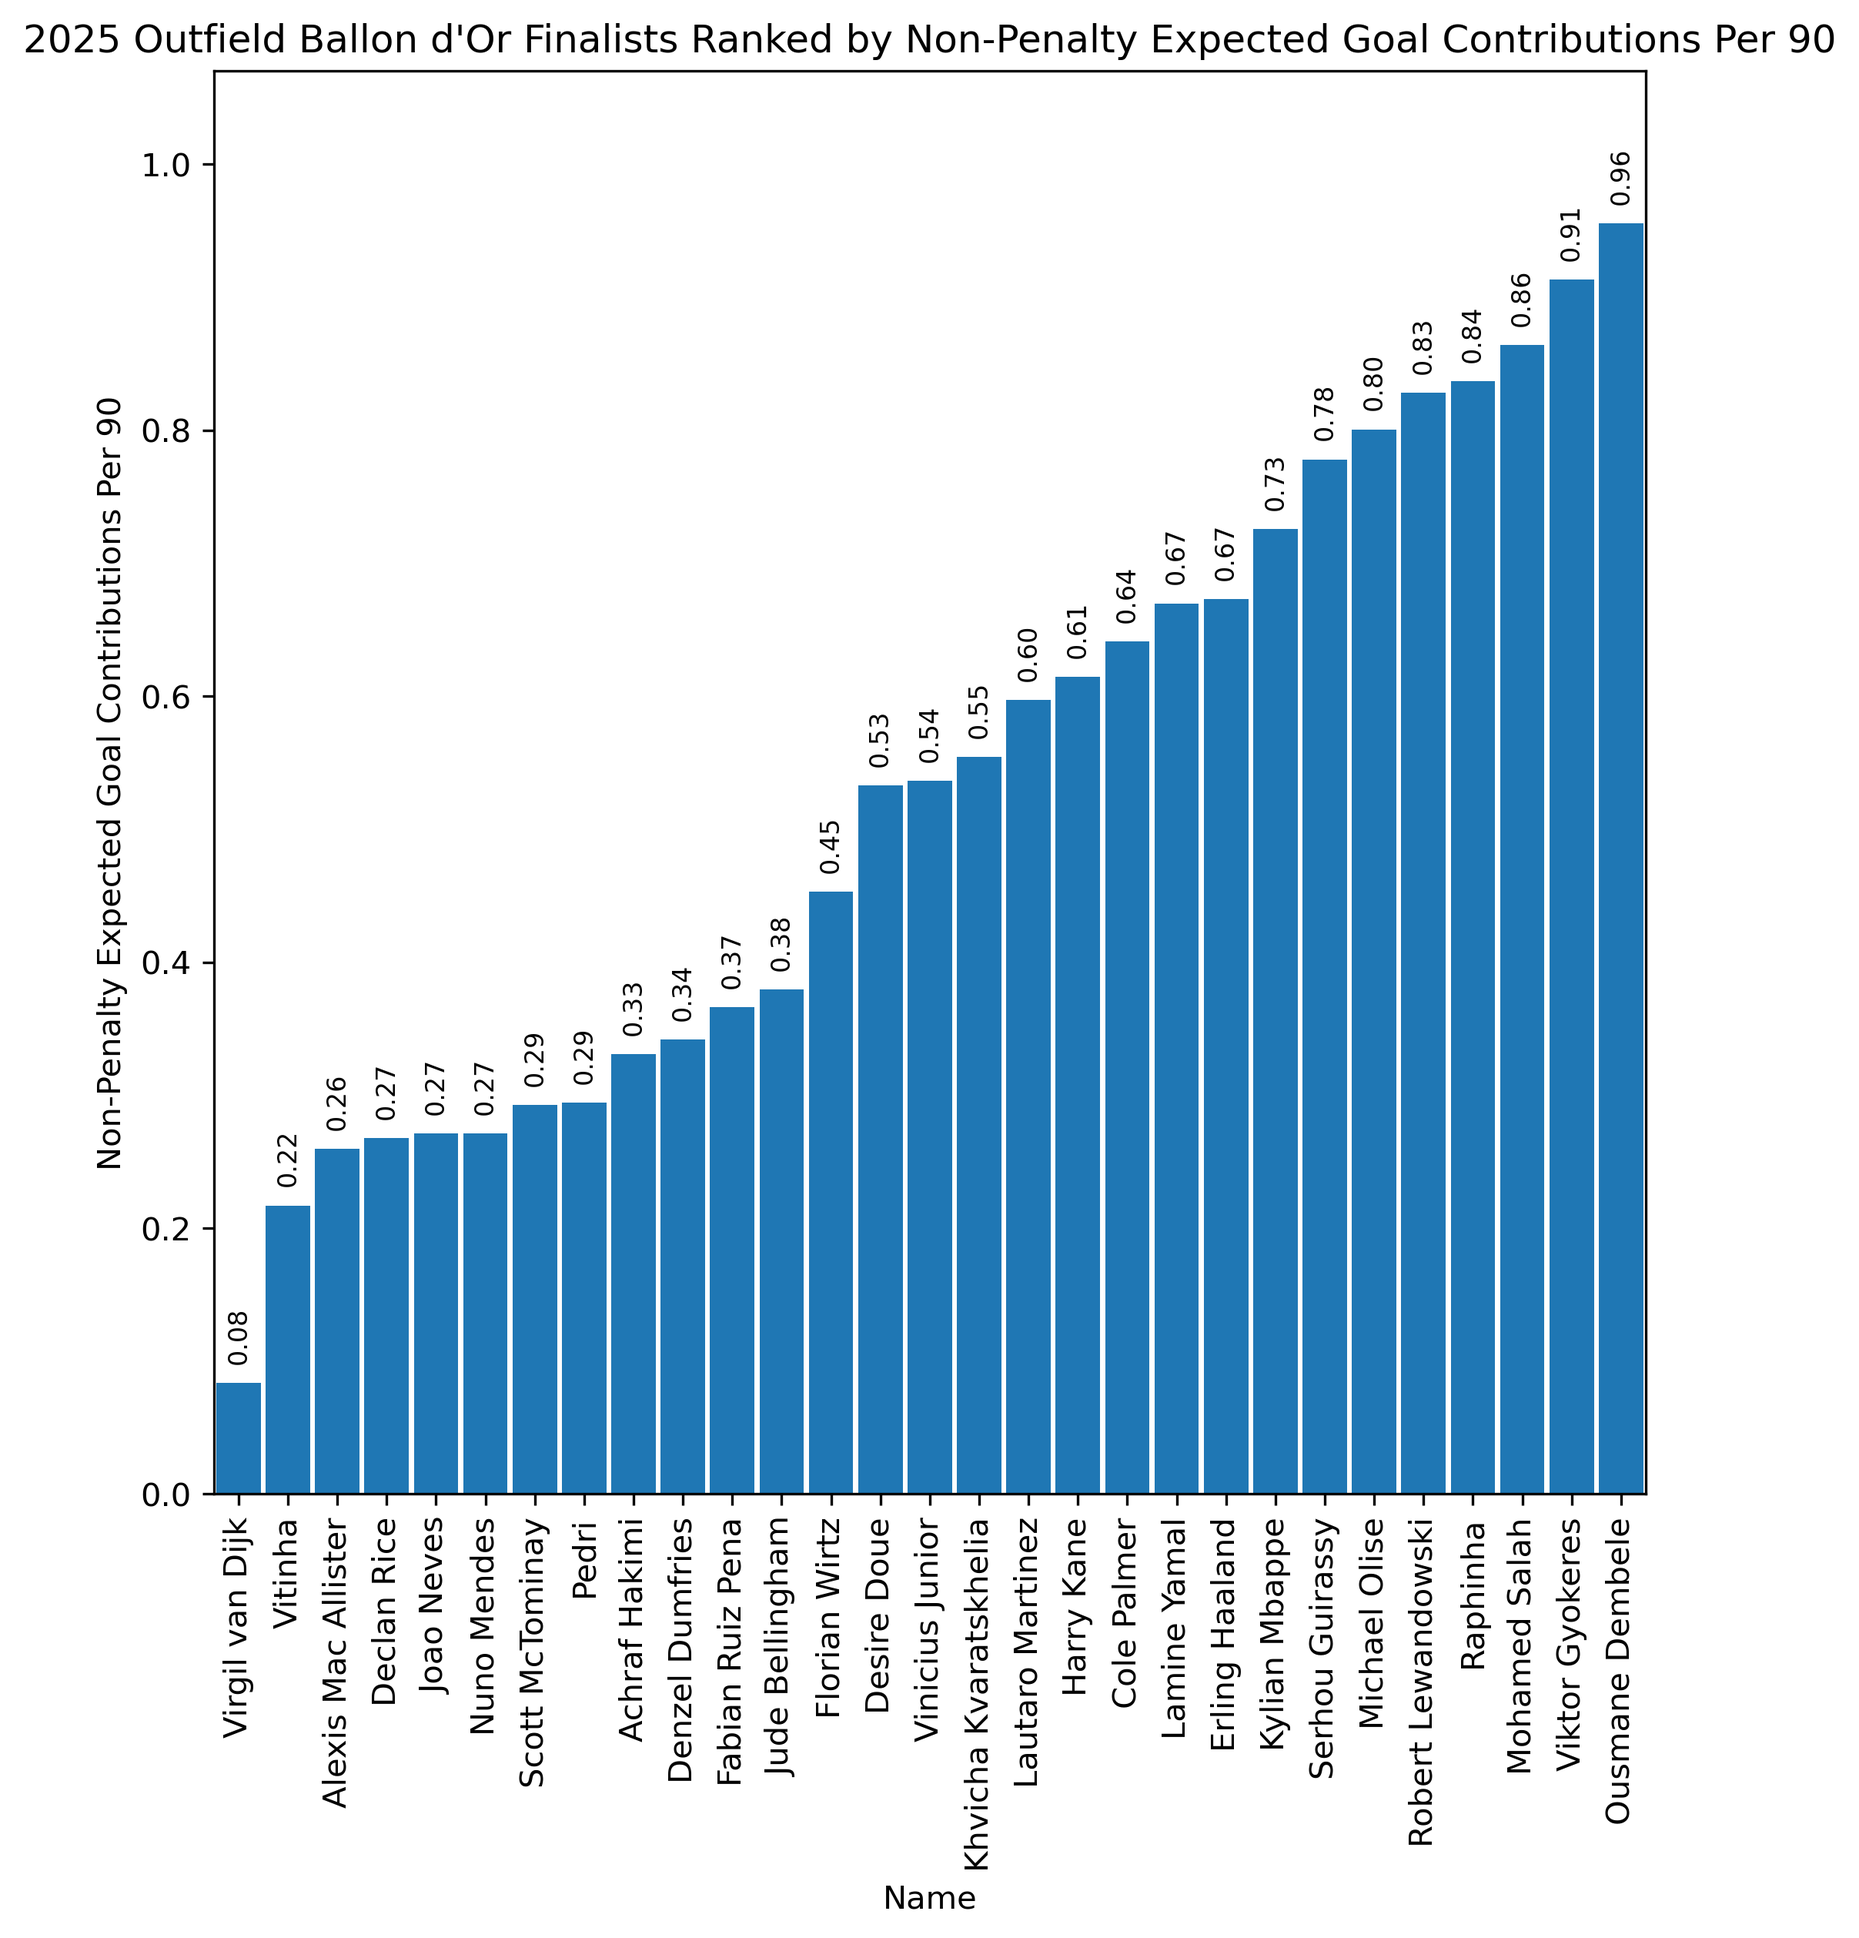
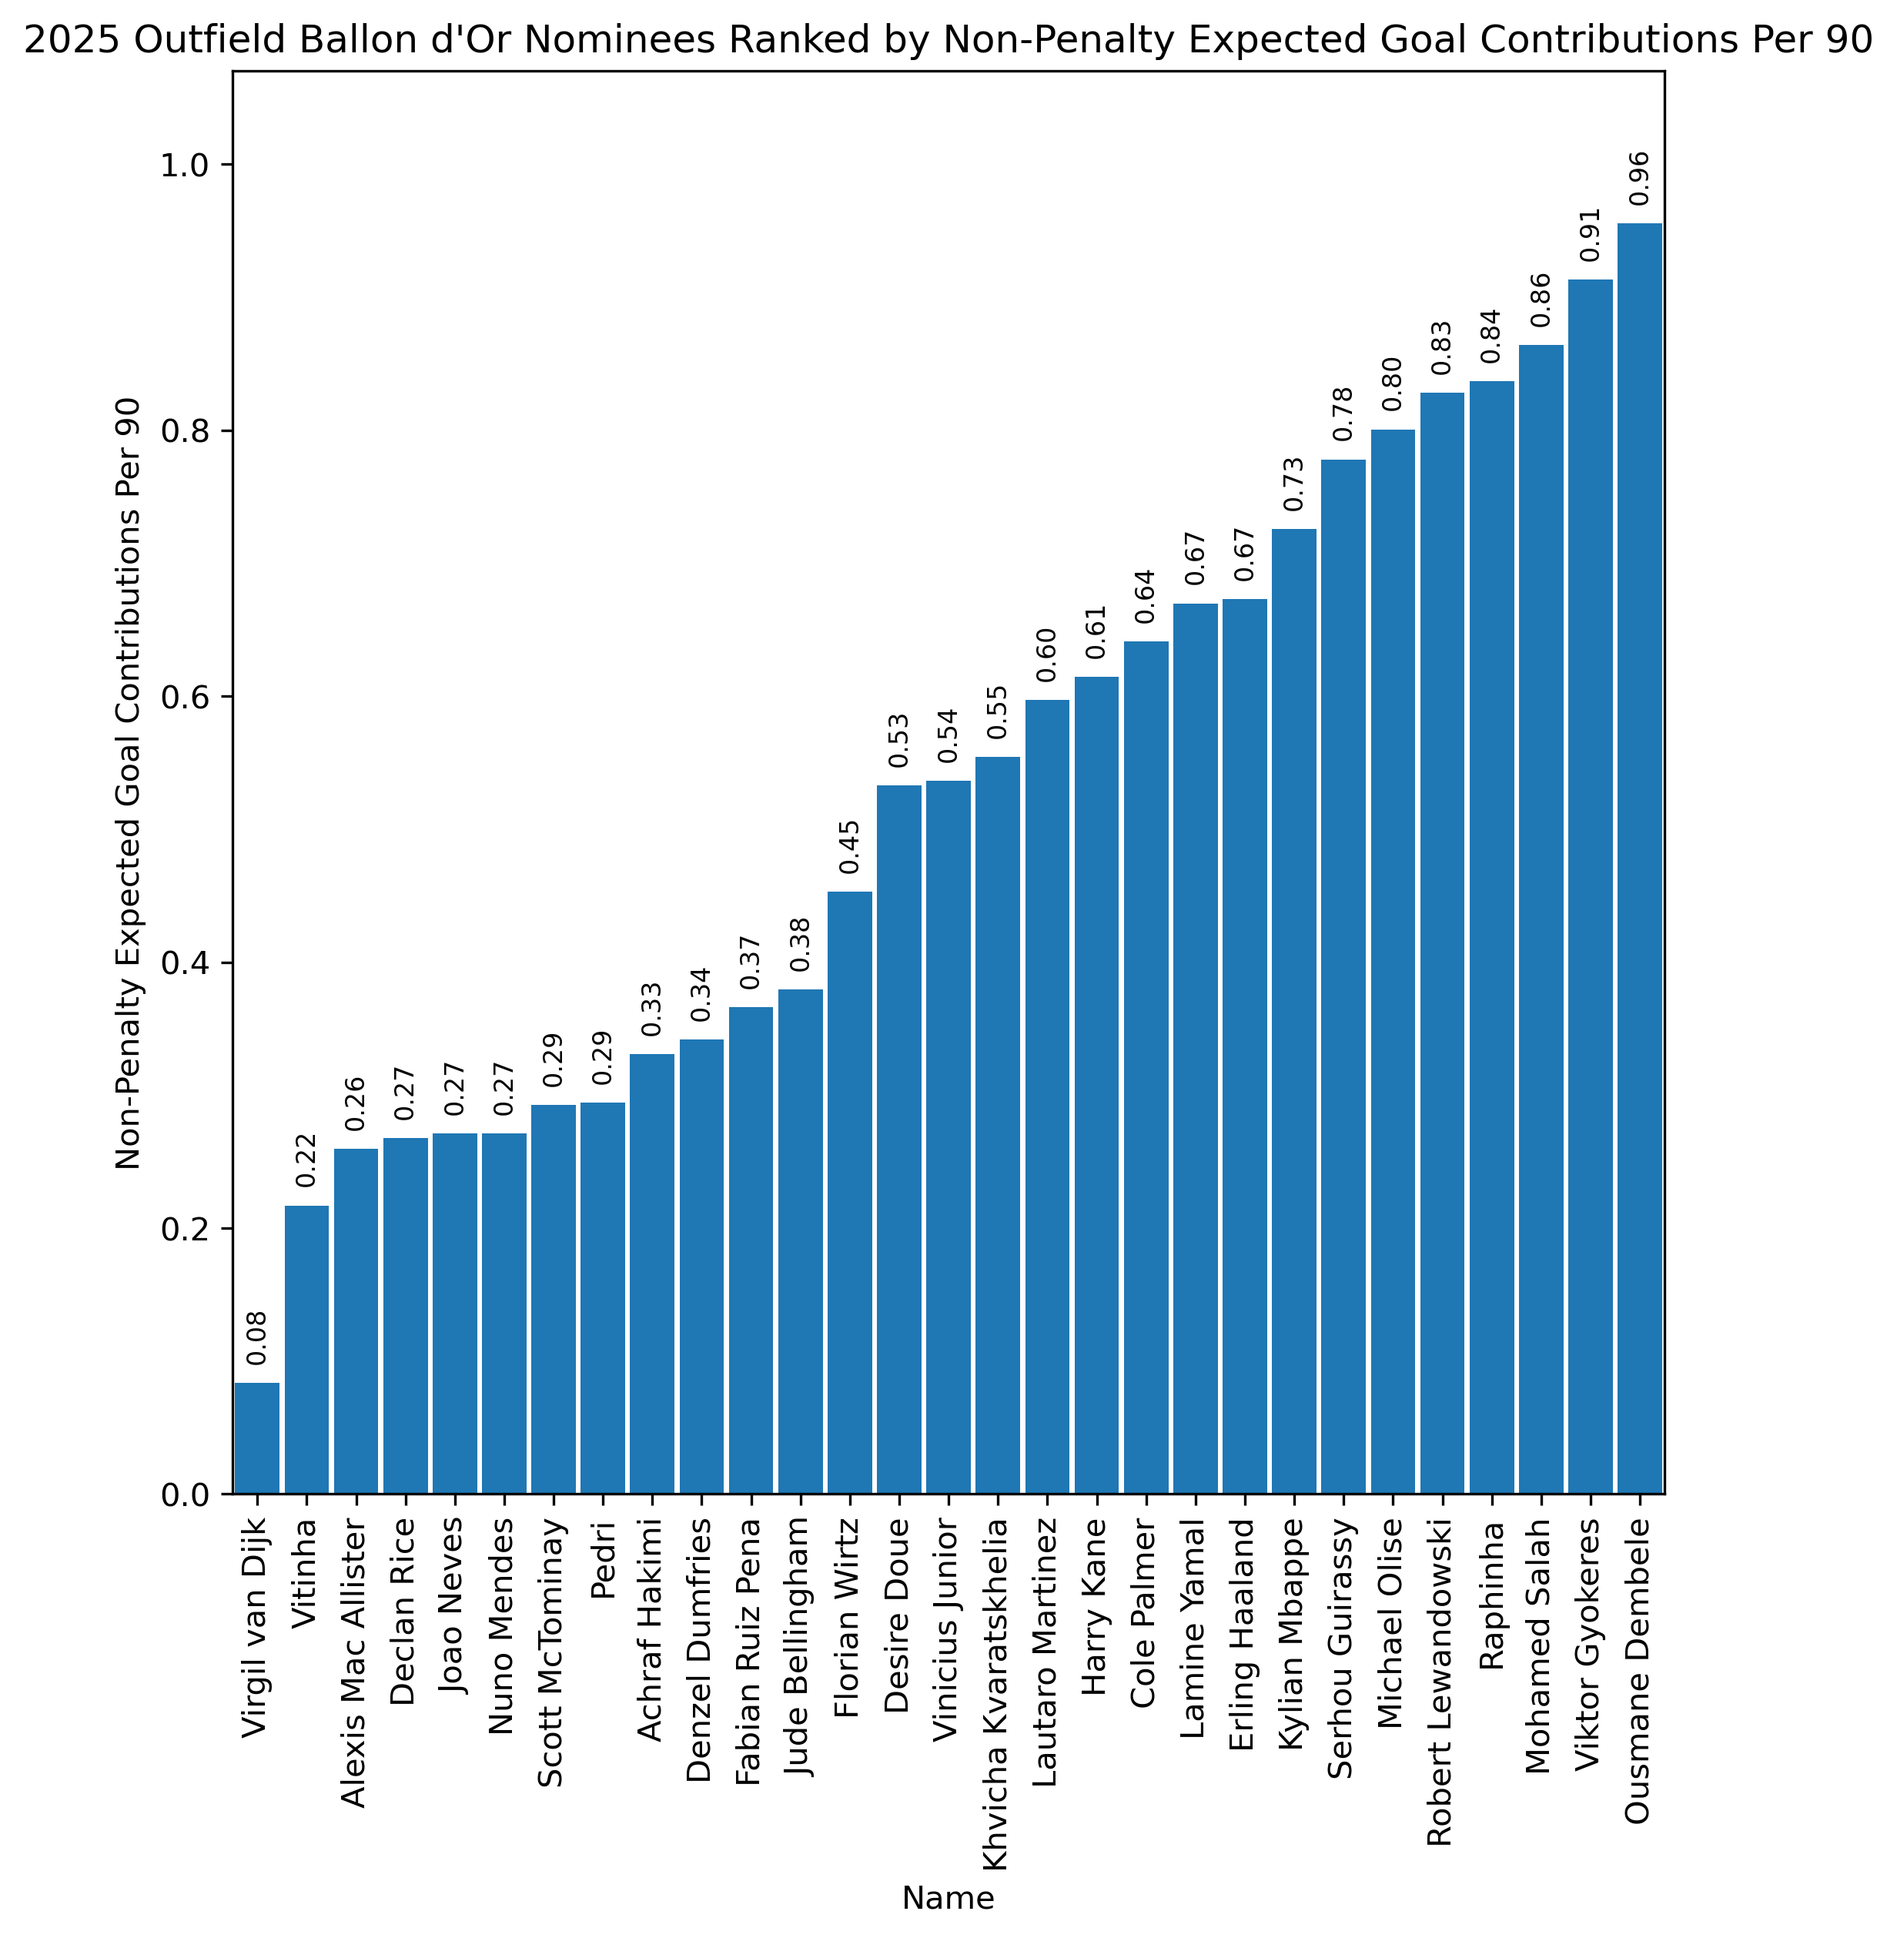
added new qualitative graphs

Changed region(s): [[0.0311, 0.0, 0.9627, 0.9607]]

diff --git a/analysis/preliminary/basicgraphs.py b/analysis/preliminary/basicgraphs.py
@@ -5,5 +5,12 @@ data = pd.read_csv('data/nominees_outfield.csv')
 data = data[data['Season'] == '2024-2025']
 data['Per 90 Minutes NpxG+xAG'] = data['Expected NpxG+xAG'] / data['Playing Time 90s']
 
-bar_graph(data, 'Name', 'Expected NpxG+xAG', 'Name','Non-Penalty Expected Goal Contributions', "2025 Outfield Ballon d'Or Finalists Ranked by Non-Penalty Expected Goal Contributions",'nonpen_xgxa', minimum=0)
-bar_graph(data, 'Name', 'Per 90 Minutes NpxG+xAG', 'Name','Non-Penalty Expected Goal Contributions Per 90', "2025 Outfield Ballon d'Or Finalists Ranked by Non-Penalty Expected Goal Contributions Per 90",'nonpen_xgxa_per90', minimum=0)
+bar_graph(data, 'Name', 'Expected NpxG+xAG', 'Name','Non-Penalty Expected Goal Contributions', "2025 Outfield Ballon d'Or Nominees Ranked by Non-Penalty Expected Goal Contributions",'nonpen_xgxa', minimum=0)
+bar_graph(data, 'Name', 'Per 90 Minutes NpxG+xAG', 'Name','Non-Penalty Expected Goal Contributions Per 90', "2025 Outfield Ballon d'Or Nominees Ranked by Non-Penalty Expected Goal Contributions Per 90",'nonpen_xgxa_per90', minimum=0)
+bar_graph(data, 'Name', 'Total PrgDist', 'Name','Total Yards that Completed Passes or Carries Have Traveled Directly Towards Opponent Goal', "2025 Outfield Ballon d'Or Nominees Ranked by Total Progressive Distance",'prg_dist', minimum=0)
+bar_graph(data, 'Name', 'Touches Live', 'Name','Touches from Open Play', "2025 Outfield Ballon d'Or Nominees Ranked by Touches from Open Play",'touches_live', minimum=0)
+
+data['Take-Ons Succ%'] = data['Take-Ons Succ'] / data['Take-Ons Att'] * 100
+
+bar_graph(data, 'Name', 'Take-Ons Succ%', 'Name','Successful Take-On %', "2025 Outfield Ballon d'Or Nominees Ranked by Successful Take-On %",'successful_take_on_percent', minimum=0)
+bar_graph(data, 'Name', 'SCA SCA90', 'Name','Shot Creating Actions per 90', "2025 Outfield Ballon d'Or Nominees Ranked by Shot Creating Actions per 90",'SCA_per90', minimum=0)
